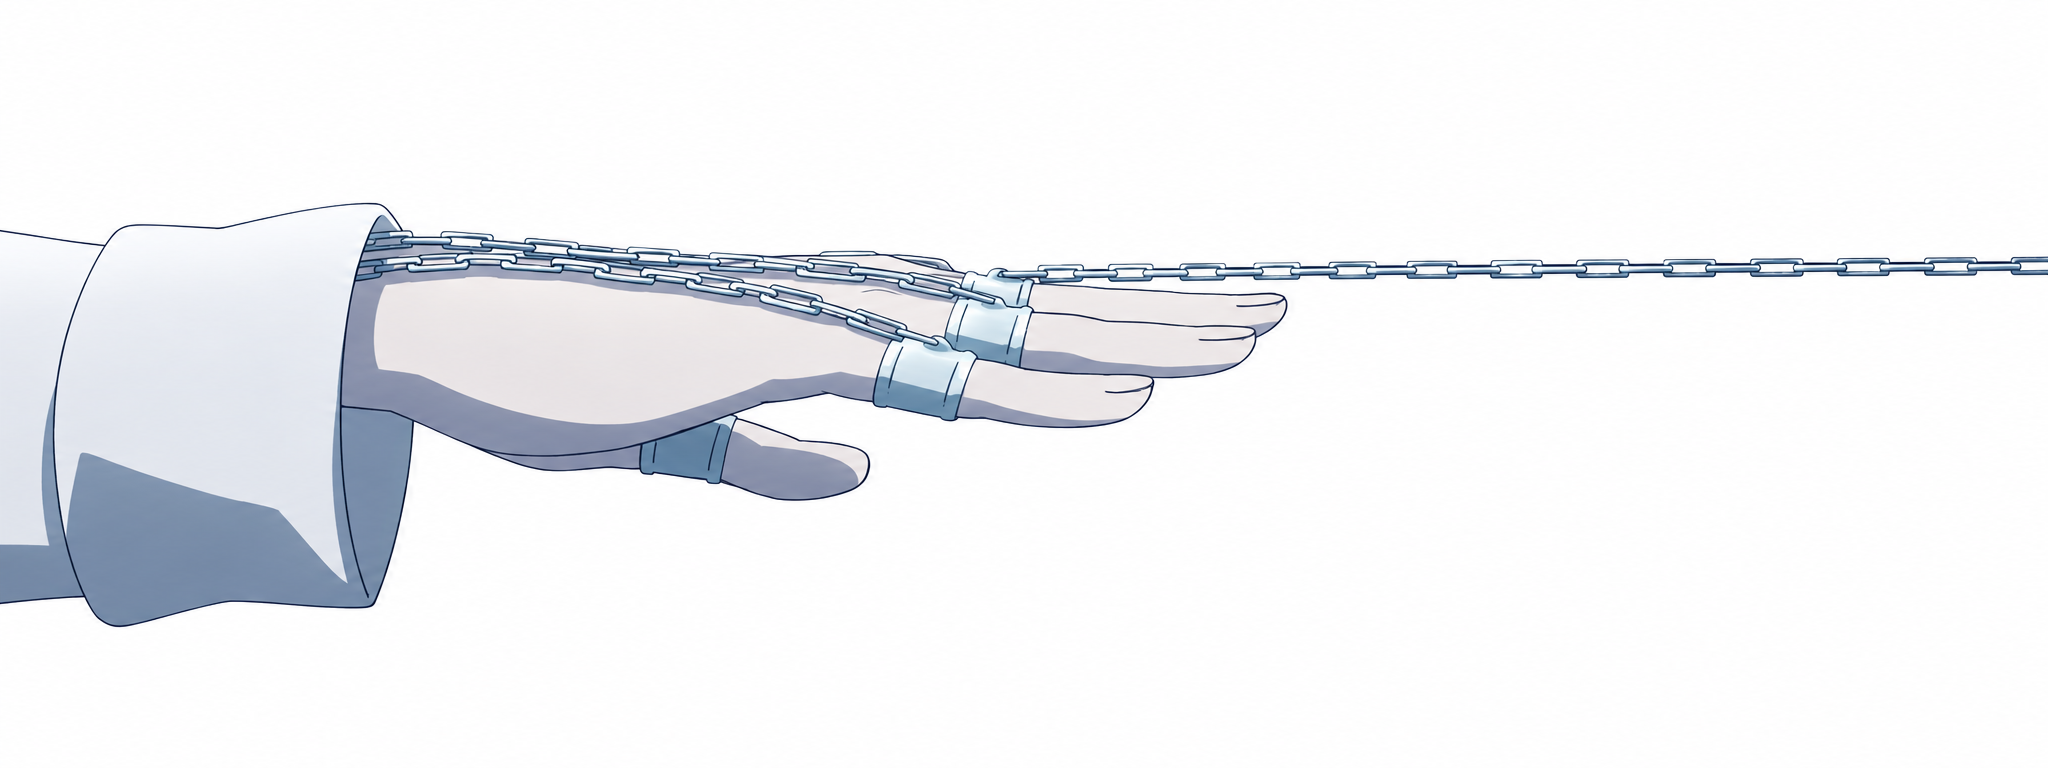
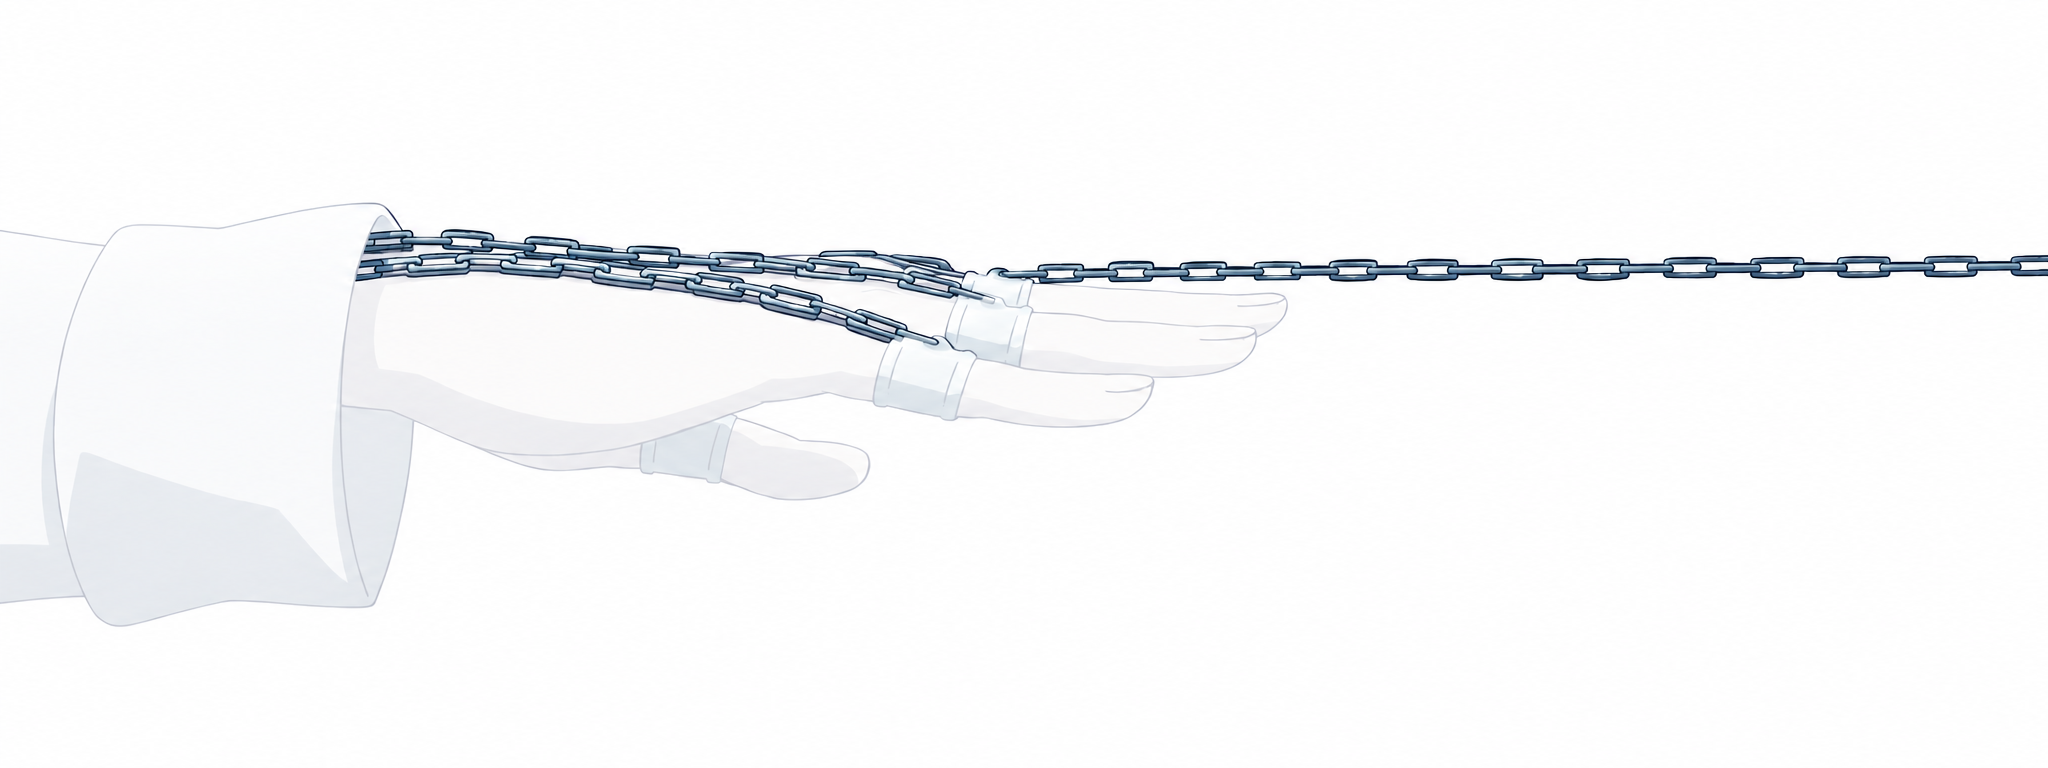
Rebalance chain hero contrast

Changed region(s): [[0.0, 0.2812, 1.0, 0.8125]]

diff --git a/index.html b/index.html
@@ -29,7 +29,7 @@
   <main id="top">
     <section class="hero" aria-labelledby="hero-title">
       <div class="hero-art" aria-hidden="true">
-        <img src="hero-chain-hand.png" alt="" fetchpriority="high">
+        <img src="hero-chain-hand.png?v=2" alt="" fetchpriority="high">
       </div>
       <h1 id="hero-title"><span>Waterloo</span><span>Crypto</span></h1>
       <a class="scroll-cue" href="#onchain" aria-label="Scroll to Onchain">↓</a>
